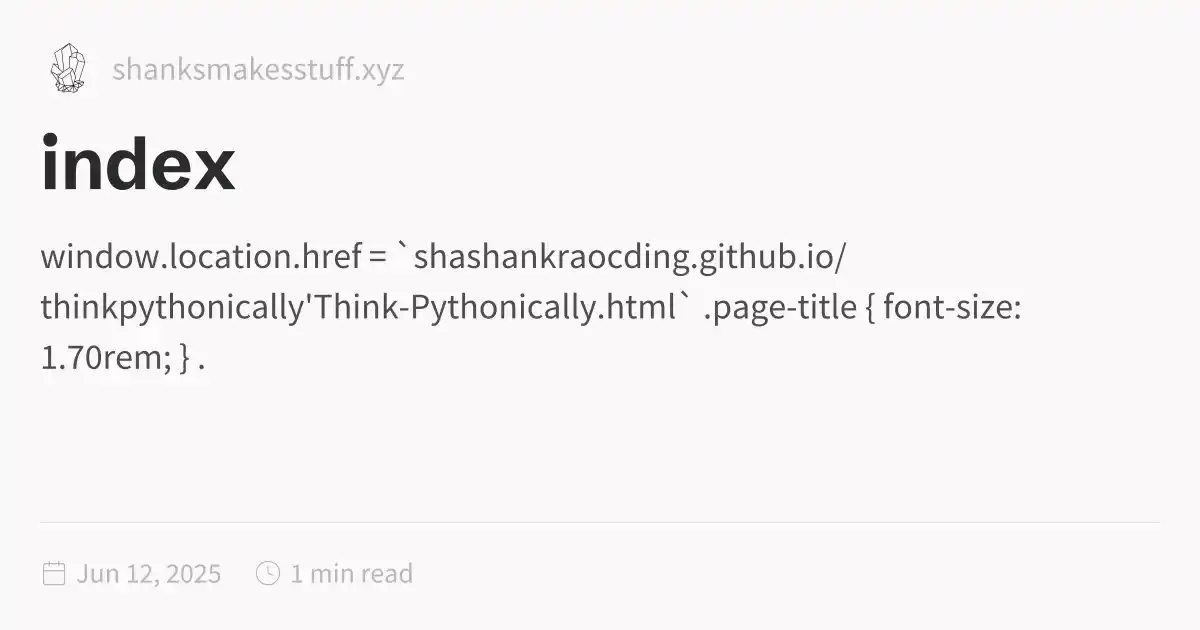
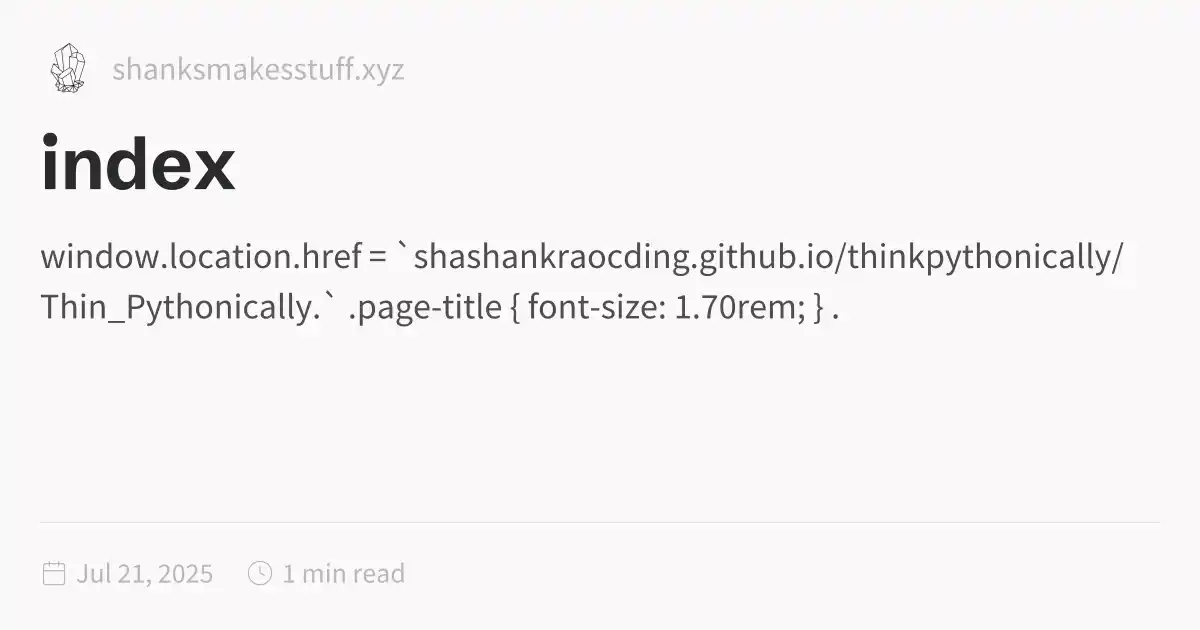
2025-07-21_1459

diff --git a/index.html b/index.html
@@ -1,5 +1,5 @@
 <!DOCTYPE html>
-<html lang="en"><head><title>index</title><meta charset="utf-8"/><link rel="preconnect" href="https://fonts.googleapis.com"/><link rel="preconnect" href="https://fonts.gstatic.com"/><link rel="stylesheet" href="https://fonts.googleapis.com/css2?family=Schibsted Grotesk:wght@400;700&amp;family=Source Sans Pro:ital,wght@0,400;0,600;1,400;1,600&amp;family=IBM Plex Mono:wght@400;600&amp;display=swap"/><link rel="preconnect" href="https://cdnjs.cloudflare.com" crossorigin="anonymous"/><meta name="viewport" content="width=device-width, initial-scale=1.0"/><meta name="og:site_name" content="ShanksMakesStuff"/><meta property="og:title" content="index"/><meta property="og:type" content="website"/><meta name="twitter:card" content="summary_large_image"/><meta name="twitter:title" content="index"/><meta name="twitter:description" content="window.location.href = `shashankraocding.github.io/thinkpythonically'Think-Pythonically.html` .page-title { font-size: 1.70rem; } ."/><meta property="og:description" content="window.location.href = `shashankraocding.github.io/thinkpythonically'Think-Pythonically.html` .page-title { font-size: 1.70rem; } ."/><meta property="og:image:alt" content="window.location.href = `shashankraocding.github.io/thinkpythonically'Think-Pythonically.html` .page-title { font-size: 1.70rem; } ."/><meta property="twitter:domain" content="shanksmakesstuff.xyz"/><meta property="og:url" content="https://shanksmakesstuff.xyz/index"/><meta property="twitter:url" content="https://shanksmakesstuff.xyz/index"/><link rel="icon" href="./static/icon.png"/><meta name="description" content="window.location.href = `shashankraocding.github.io/thinkpythonically'Think-Pythonically.html` .page-title { font-size: 1.70rem; } ."/><meta name="generator" content="Quartz"/><link href="./index.css" rel="stylesheet" type="text/css" spa-preserve/><style>.expand-button {
+<html lang="en"><head><title>index</title><meta charset="utf-8"/><link rel="preconnect" href="https://fonts.googleapis.com"/><link rel="preconnect" href="https://fonts.gstatic.com"/><link rel="stylesheet" href="https://fonts.googleapis.com/css2?family=Schibsted Grotesk:wght@400;700&amp;family=Source Sans Pro:ital,wght@0,400;0,600;1,400;1,600&amp;family=IBM Plex Mono:wght@400;600&amp;display=swap"/><link rel="preconnect" href="https://cdnjs.cloudflare.com" crossorigin="anonymous"/><meta name="viewport" content="width=device-width, initial-scale=1.0"/><meta name="og:site_name" content="ShanksMakesStuff"/><meta property="og:title" content="index"/><meta property="og:type" content="website"/><meta name="twitter:card" content="summary_large_image"/><meta name="twitter:title" content="index"/><meta name="twitter:description" content="window.location.href = `shashankraocding.github.io/thinkpythonically/Thin_Pythonically.` .page-title { font-size: 1.70rem; } ."/><meta property="og:description" content="window.location.href = `shashankraocding.github.io/thinkpythonically/Thin_Pythonically.` .page-title { font-size: 1.70rem; } ."/><meta property="og:image:alt" content="window.location.href = `shashankraocding.github.io/thinkpythonically/Thin_Pythonically.` .page-title { font-size: 1.70rem; } ."/><meta property="twitter:domain" content="shanksmakesstuff.xyz"/><meta property="og:url" content="https://shanksmakesstuff.xyz/index"/><meta property="twitter:url" content="https://shanksmakesstuff.xyz/index"/><link rel="icon" href="./static/icon.png"/><meta name="description" content="window.location.href = `shashankraocding.github.io/thinkpythonically/Thin_Pythonically.` .page-title { font-size: 1.70rem; } ."/><meta name="generator" content="Quartz"/><link href="./index.css" rel="stylesheet" type="text/css" spa-preserve/><style>.expand-button {
   position: absolute;
   display: flex;
   float: right;
@@ -116,8 +116,8 @@ pre:hover > .expand-button {
   padding: 0 12px;
   font-size: 14px;
 }
[1 lines of base64/hex data omitted]
-	window.location.href = `shashankraocding.github.io/thinkpythonically'Think-Pythonically.html` 
[1 lines of base64/hex data omitted]
+	window.location.href = `shashankraocding.github.io/thinkpythonically/Thin_Pythonically.` 
 	</script> 
  
 	<style> 
